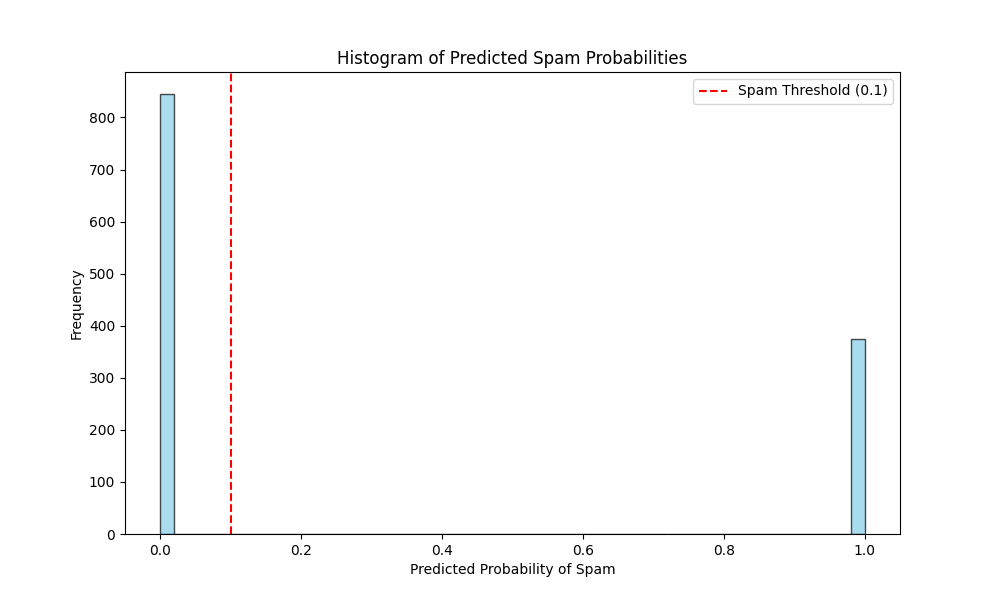
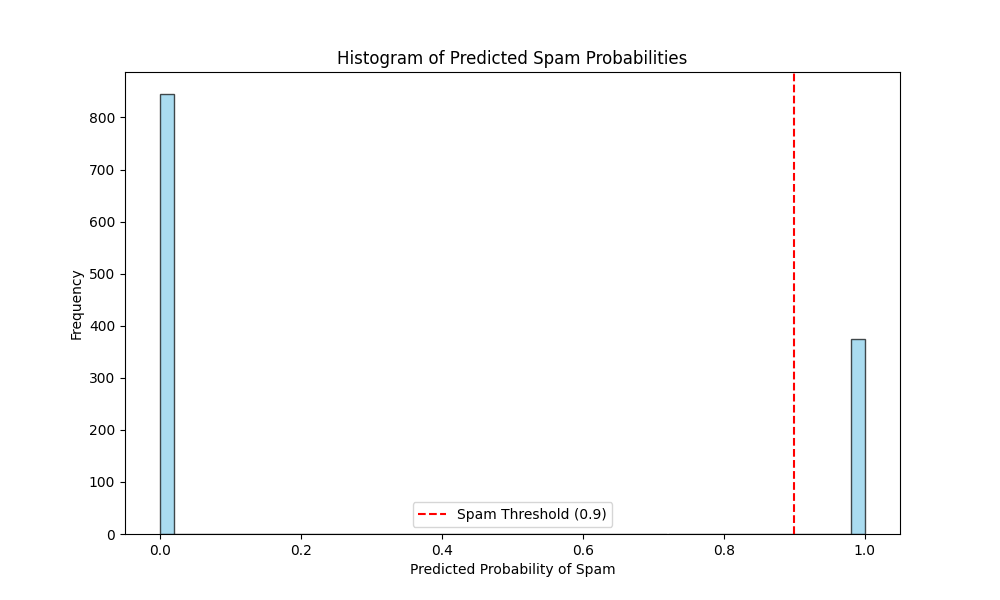
fixed a mistake

Changed region(s): [[0.682, 0.12, 0.899, 0.18], [0.434, 0.84, 0.62, 0.87]]

diff --git a/main.py b/main.py
@@ -128,7 +128,7 @@ clf.fit(X_train, y_train)
 
 # Use probabilities to apply a custom threshold for spam detection
 y_prob = clf.predict_proba(X_test)[:, 1]  # Probability of being spam
-spam_threshold = 0.1 
+spam_threshold = 0.9
 
 # Predict using the custom threshold
 y_pred = (y_prob >= spam_threshold).astype(int)
